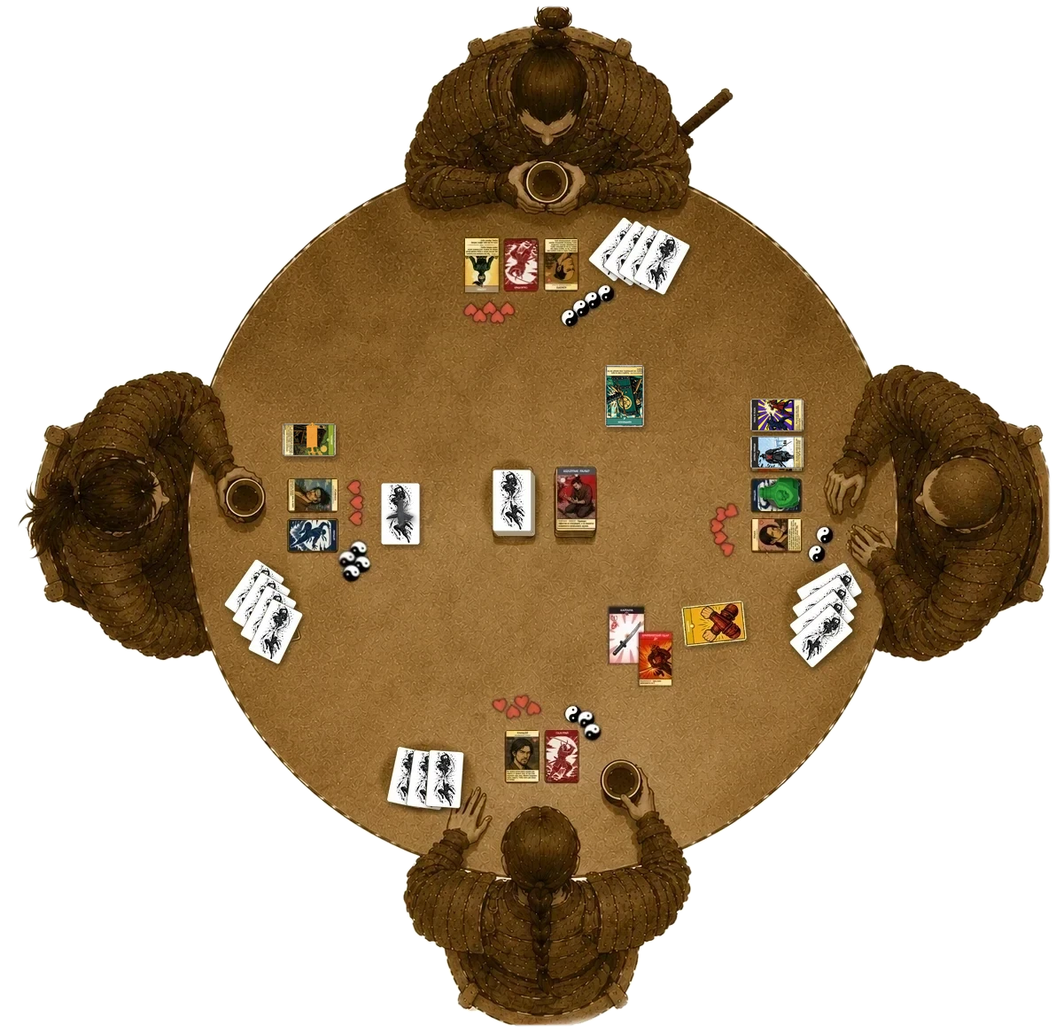
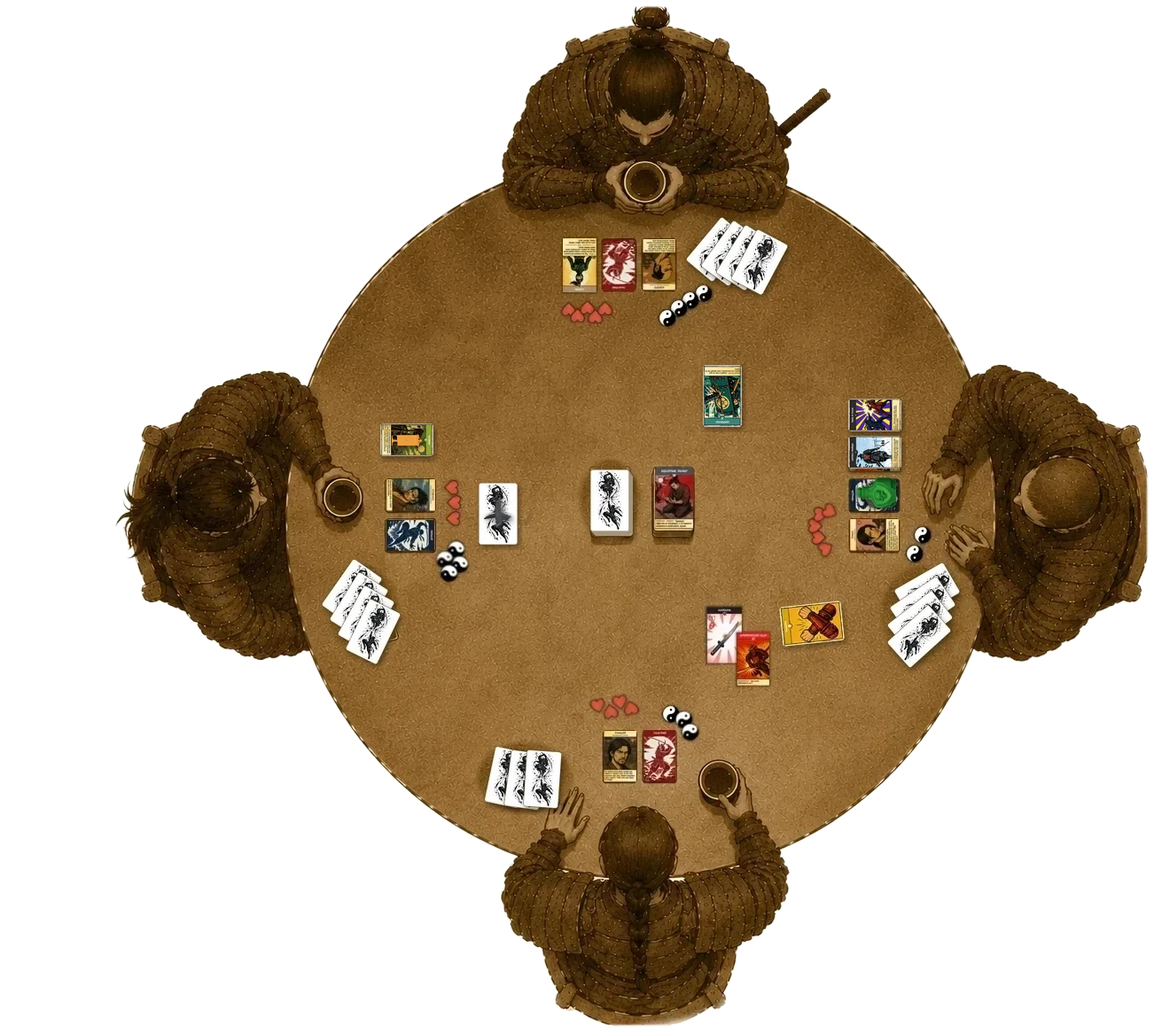
Стол: стрелки — дуги концентрично кромке, значки типов посередине; атака и защита сходятся на середине; дуга ауры за спиной левого ниндзя (холст шире на 110 px); плашки круглее, знамя повёрнуто по игроку

Changed region(s): [[0.0, 0.0, 1.0, 1.0]]

diff --git a/rules/rules.html b/rules/rules.html
@@ -134,7 +134,7 @@
           <h2 class="chapter-title">Стол<span class="kanji" aria-hidden="true">卓</span></h2>
 <p>Так выглядит стол в середине партии на четверых: у каждого игрока перед собой своя зона, посреди стола — общие стопки. Игроки сидят через одного, поэтому напротив — союзник, а по бокам — противники.</p>
 <figure class="table-figure">
-        <div class="table-pic"><img src="media/table.webp" alt="" width="1192" height="1165"><svg class="table-overlay" viewBox="0 0 1192 1165" xmlns="http://www.w3.org/2000/svg" aria-hidden="true"><defs><marker id="tf-arrow" viewBox="0 0 10 10" refX="9" refY="5" markerWidth="5" markerHeight="5" orient="auto-start-reverse"><path d="M0,0 L10,5 L0,10 z"/></marker><marker id="tf-arrow-attack" viewBox="0 0 10 10" refX="8" refY="5" markerWidth="4" markerHeight="4" orient="auto-start-reverse"><path d="M0,0 L10,5 L0,10 z"/></marker><marker id="tf-arrow-def" viewBox="0 0 10 10" refX="8" refY="5" markerWidth="4" markerHeight="4" orient="auto-start-reverse"><path d="M0,0 L10,5 L0,10 z"/></marker><marker id="tf-arrow-int" viewBox="0 0 10 10" refX="8" refY="5" markerWidth="4" markerHeight="4" orient="auto-start-reverse"><path d="M0,0 L10,5 L0,10 z"/></marker></defs><path class="tf-flow tf-flow-attack" d="M 790 1125 C 930 1100 1020 950 1005 775"/><path class="tf-flow tf-flow-def" d="M 1165 715 C 1175 770 1140 800 1082 800"/><path class="tf-flow tf-flow-int" d="M 800 215 C 920 215 1010 260 1030 320"/><g class="tf-lines"><line x1="472" y1="300" x2="515" y2="300"/><line x1="599" y1="406" x2="593" y2="335"/><line x1="824" y1="361" x2="760" y2="315"/><line x1="476" y1="626" x2="458" y2="612"/><line x1="447" y1="464" x2="365" y2="532"/><line x1="312" y1="451" x2="330" y2="480"/><line x1="518" y1="519" x2="560" y2="565"/><line x1="680" y1="595" x2="668" y2="588"/><line x1="829" y1="449" x2="856" y2="462"/><line x1="709" y1="409" x2="708" y2="412"/><line x1="820" y1="544" x2="862" y2="552"/><line x1="813" y1="743" x2="812" y2="732"/><line x1="626" y1="717" x2="688" y2="714"/><line x1="468" y1="793" x2="565" y2="800"/><line x1="714" y1="812" x2="683" y2="812"/></g><g class="tf-labels"><g transform="translate(384,281)"><rect width="89" height="38" rx="5"/><text class="tf-txt" x="44.5" y="20.0">Стойка</text></g><g transform="translate(532,406)"><rect width="136" height="38" rx="5"/><text class="tf-txt" x="68.0" y="20.0">Карта роли</text></g><g transform="translate(818,361)"><rect width="65" height="38" rx="5"/><text class="tf-txt" x="32.5" y="20.0">Рука</text></g><g transform="translate(450,626)"><rect width="101" height="38" rx="5"/><text class="tf-txt" x="50.5" y="20.0">Ловушка</text></g><g transform="translate(414,426)"><rect width="113" height="38" rx="5"/><text class="tf-txt" x="56.5" y="20.0">Персонаж</text></g><g transform="translate(268,413)"><rect width="65" height="38" rx="5"/><text class="tf-txt" x="32.5" y="20.0">Аура</text></g><g transform="translate(456,481)"><rect width="89" height="38" rx="5"/><text class="tf-txt" x="44.5" y="20.0">Колода</text></g><g transform="translate(674,595)"><rect width="77" height="38" rx="5"/><text class="tf-txt" x="38.5" y="20.0">Сброс</text></g><g transform="translate(740,411)"><rect width="101" height="38" rx="5"/><text class="tf-txt" x="50.5" y="20.0">Эффекты</text></g><g transform="translate(630,371)"><rect width="172" height="38" rx="5"/><text class="tf-txt" x="86.0" y="20.0">Вмешательство</text></g><g transform="translate(780,521)"><rect width="41" height="38" rx="5"/><text class="tf-txt" x="20.5" y="20.0">Яд</text></g><g transform="translate(770,743)"><rect width="89" height="38" rx="5"/><text class="tf-txt" x="44.5" y="20.0">Защита</text></g><g transform="translate(454,688)"><rect width="172" height="67" rx="5"/><text class="tf-txt" x="86.0" y="20.0">Атака: оружие</text><text class="tf-txt" x="86.0" y="49.0">+ модификатор</text></g><g transform="translate(392,771)"><rect width="77" height="38" rx="5"/><text class="tf-txt" x="38.5" y="20.0">Жизни</text></g><g transform="translate(714,793)"><rect width="172" height="38" rx="5"/><text class="tf-txt" x="86.0" y="20.0">Победные очки</text></g><g transform="translate(1034,941)"><rect width="101" height="38" rx="5"/><text class="tf-txt" x="50.5" y="20.0">Атакует</text></g><g transform="translate(1040,843)"><rect width="136" height="38" rx="5"/><text class="tf-txt" x="68.0" y="20.0">Защищается</text></g><g transform="translate(941,199)"><rect width="148" height="38" rx="5"/><text class="tf-txt" x="74.0" y="20.0">Вмешивается</text></g></g><g class="tf-tags"><g transform="translate(810,131)"><rect width="101" height="38" rx="23"/><text x="50.5" y="20.0">Самурай</text></g><g transform="translate(1036,376)"><rect width="89" height="38" rx="23"/><text x="44.5" y="20.0">Ниндзя</text></g><g transform="translate(710,1041)"><rect width="101" height="38" rx="23"/><text x="50.5" y="20.0">Самурай</text></g><g transform="translate(96,381)"><rect width="89" height="38" rx="23"/><text x="44.5" y="20.0">Ниндзя</text></g></g></svg><i class="ic tf-icon" data-b="defense" style="left:89.09%;top:68.67%"></i></div>
+        <div class="table-pic"><img src="media/table.webp" alt="" width="1302" height="1165"><svg class="table-overlay" viewBox="0 0 1302 1165" xmlns="http://www.w3.org/2000/svg" aria-hidden="true"><defs><marker id="tf-arrow" viewBox="0 0 10 10" refX="9" refY="5" markerWidth="5" markerHeight="5" orient="auto-start-reverse"><path d="M0,0 L10,5 L0,10 z"/></marker><marker id="tf-arrow-attack" viewBox="0 0 10 10" refX="8" refY="5" markerWidth="4" markerHeight="4" orient="auto-start-reverse"><path d="M0,0 L10,5 L0,10 z"/></marker><marker id="tf-arrow-def" viewBox="0 0 10 10" refX="8" refY="5" markerWidth="4" markerHeight="4" orient="auto-start-reverse"><path d="M0,0 L10,5 L0,10 z"/></marker><marker id="tf-arrow-int" viewBox="0 0 10 10" refX="8" refY="5" markerWidth="4" markerHeight="4" orient="auto-start-reverse"><path d="M0,0 L10,5 L0,10 z"/></marker><marker id="tf-arrow-aura" viewBox="0 0 10 10" refX="8" refY="5" markerWidth="4" markerHeight="4" orient="auto-start-reverse"><path d="M0,0 L10,5 L0,10 z"/></marker></defs><g transform="translate(110,0)"><path class="tf-flow tf-flow-attack" d="M 773 1018 A 470 470 0 0 0 918 926"/><path class="tf-flow tf-flow-def" d="M 1049 712 A 470 470 0 0 1 941 903"/><path class="tf-flow tf-flow-int" d="M 788 153 A 470 470 0 0 1 946 268"/><path class="tf-flow tf-flow-aura" d="M 49 326 A 605 605 0 0 0 49 838"/><g class="tf-lines"><line x1="472" y1="300" x2="515" y2="300"/><line x1="599" y1="406" x2="593" y2="335"/><line x1="824" y1="361" x2="760" y2="315"/><line x1="476" y1="626" x2="458" y2="612"/><line x1="447" y1="464" x2="365" y2="532"/><line x1="518" y1="519" x2="560" y2="565"/><line x1="680" y1="595" x2="668" y2="588"/><line x1="829" y1="449" x2="856" y2="462"/><line x1="709" y1="409" x2="708" y2="412"/><line x1="820" y1="544" x2="862" y2="552"/><line x1="813" y1="743" x2="812" y2="732"/><line x1="626" y1="717" x2="688" y2="714"/><line x1="468" y1="793" x2="565" y2="800"/><line x1="714" y1="812" x2="683" y2="812"/></g><g class="tf-labels"><g transform="translate(384,281)"><rect width="89" height="38" rx="7"/><text class="tf-txt" x="44.5" y="20.0">Стойка</text></g><g transform="translate(532,406)"><rect width="136" height="38" rx="7"/><text class="tf-txt" x="68.0" y="20.0">Карта роли</text></g><g transform="translate(818,361)"><rect width="65" height="38" rx="7"/><text class="tf-txt" x="32.5" y="20.0">Рука</text></g><g transform="translate(450,626)"><rect width="101" height="38" rx="7"/><text class="tf-txt" x="50.5" y="20.0">Ловушка</text></g><g transform="translate(414,426)"><rect width="113" height="38" rx="7"/><text class="tf-txt" x="56.5" y="20.0">Персонаж</text></g><g transform="translate(456,481)"><rect width="89" height="38" rx="7"/><text class="tf-txt" x="44.5" y="20.0">Колода</text></g><g transform="translate(674,595)"><rect width="77" height="38" rx="7"/><text class="tf-txt" x="38.5" y="20.0">Сброс</text></g><g transform="translate(740,411)"><rect width="101" height="38" rx="7"/><text class="tf-txt" x="50.5" y="20.0">Эффекты</text></g><g transform="translate(630,371)"><rect width="172" height="38" rx="7"/><text class="tf-txt" x="86.0" y="20.0">Вмешательство</text></g><g transform="translate(780,521)"><rect width="41" height="38" rx="7"/><text class="tf-txt" x="20.5" y="20.0">Яд</text></g><g transform="translate(770,743)"><rect width="89" height="38" rx="7"/><text class="tf-txt" x="44.5" y="20.0">Защита</text></g><g transform="translate(454,688)"><rect width="172" height="67" rx="7"/><text class="tf-txt" x="86.0" y="20.0">Атака: оружие</text><text class="tf-txt" x="86.0" y="49.0">+ модификатор</text></g><g transform="translate(392,771)"><rect width="77" height="38" rx="7"/><text class="tf-txt" x="38.5" y="20.0">Жизни</text></g><g transform="translate(714,793)"><rect width="172" height="38" rx="7"/><text class="tf-txt" x="86.0" y="20.0">Победные очки</text></g><g transform="translate(847,1035)"><rect width="101" height="38" rx="7"/><text class="tf-txt" x="50.5" y="20.0">Атакует</text></g><g transform="translate(1027,851)"><rect width="136" height="38" rx="7"/><text class="tf-txt" x="68.0" y="20.0">Защищается</text></g><g transform="translate(852,110)"><rect width="148" height="38" rx="7"/><text class="tf-txt" x="74.0" y="20.0">Вмешивается</text></g><g transform="translate(-22,811)"><rect width="243" height="38" rx="7"/><text class="tf-txt" x="121.5" y="20.0">Аура — на весь стол</text></g></g><g class="tf-tags"><g transform="translate(284,131)"><rect width="101" height="38" rx="23"/><text x="50.5" y="20.0">Самурай</text></g><g transform="translate(1036,376)"><rect width="89" height="38" rx="23"/><text x="44.5" y="20.0">Ниндзя</text></g><g transform="translate(710,1041)"><rect width="101" height="38" rx="23"/><text x="50.5" y="20.0">Самурай</text></g><g transform="translate(96,381)"><rect width="89" height="38" rx="23"/><text x="44.5" y="20.0">Ниндзя</text></g></g></g></svg><i class="ic tf-icon" data-b="weapon" style="left:72.21%;top:84.98%"></i><i class="ic tf-icon" data-b="modifier" style="left:75.14%;top:82.90%"></i><i class="ic tf-icon" data-b="defense" style="left:85.72%;top:69.82%"></i><i class="ic tf-icon" data-b="intervention" style="left:75.52%;top:17.32%"></i><i class="ic tf-icon" data-b="aura" style="left:7.83%;top:49.96%"></i></div>
         <figcaption>Стол на четверых: самурай — ниндзя — самурай — ниндзя.</figcaption>
       </figure>
 <aside class="note">За большим столом — на восьмерых — колоду и сброс удобно разделить на две стопки и поставить с разных сторон, чтобы каждому было легко дотянуться: колода перетасована, а порядок карт в сбросе не важен.</aside>

diff --git a/rules/rules-en.html b/rules/rules-en.html
@@ -134,7 +134,7 @@
           <h2 class="chapter-title">The Table<span class="kanji" aria-hidden="true">卓</span></h2>
 <p>This is what a four-player table looks like mid-game: every player has their own area in front of them, and the shared piles sit in the middle. Seats alternate, so the player opposite is your ally and the players on either side are enemies.</p>
 <figure class="table-figure">
-        <div class="table-pic"><img src="media/table.webp" alt="" width="1192" height="1165"><svg class="table-overlay" viewBox="0 0 1192 1165" xmlns="http://www.w3.org/2000/svg" aria-hidden="true"><defs><marker id="tf-arrow" viewBox="0 0 10 10" refX="9" refY="5" markerWidth="5" markerHeight="5" orient="auto-start-reverse"><path d="M0,0 L10,5 L0,10 z"/></marker><marker id="tf-arrow-attack" viewBox="0 0 10 10" refX="8" refY="5" markerWidth="4" markerHeight="4" orient="auto-start-reverse"><path d="M0,0 L10,5 L0,10 z"/></marker><marker id="tf-arrow-def" viewBox="0 0 10 10" refX="8" refY="5" markerWidth="4" markerHeight="4" orient="auto-start-reverse"><path d="M0,0 L10,5 L0,10 z"/></marker><marker id="tf-arrow-int" viewBox="0 0 10 10" refX="8" refY="5" markerWidth="4" markerHeight="4" orient="auto-start-reverse"><path d="M0,0 L10,5 L0,10 z"/></marker></defs><path class="tf-flow tf-flow-attack" d="M 790 1125 C 930 1100 1020 950 1005 775"/><path class="tf-flow tf-flow-def" d="M 1165 715 C 1175 770 1140 800 1082 800"/><path class="tf-flow tf-flow-int" d="M 800 215 C 920 215 1010 260 1030 320"/><g class="tf-lines"><line x1="472" y1="300" x2="515" y2="300"/><line x1="599" y1="406" x2="593" y2="335"/><line x1="824" y1="361" x2="760" y2="315"/><line x1="476" y1="626" x2="458" y2="612"/><line x1="447" y1="464" x2="365" y2="532"/><line x1="312" y1="451" x2="330" y2="480"/><line x1="518" y1="519" x2="560" y2="565"/><line x1="680" y1="595" x2="668" y2="588"/><line x1="829" y1="449" x2="856" y2="462"/><line x1="709" y1="409" x2="708" y2="412"/><line x1="844" y1="549" x2="862" y2="552"/><line x1="813" y1="743" x2="812" y2="732"/><line x1="632" y1="717" x2="688" y2="714"/><line x1="462" y1="792" x2="565" y2="800"/><line x1="708" y1="812" x2="683" y2="812"/></g><g class="tf-labels"><g transform="translate(384,281)"><rect width="89" height="38" rx="5"/><text class="tf-txt" x="44.5" y="20.0">Stance</text></g><g transform="translate(538,406)"><rect width="124" height="38" rx="5"/><text class="tf-txt" x="62.0" y="20.0">Role card</text></g><g transform="translate(818,361)"><rect width="65" height="38" rx="5"/><text class="tf-txt" x="32.5" y="20.0">Hand</text></g><g transform="translate(468,626)"><rect width="65" height="38" rx="5"/><text class="tf-txt" x="32.5" y="20.0">Trap</text></g><g transform="translate(408,426)"><rect width="124" height="38" rx="5"/><text class="tf-txt" x="62.0" y="20.0">Character</text></g><g transform="translate(268,413)"><rect width="65" height="38" rx="5"/><text class="tf-txt" x="32.5" y="20.0">Aura</text></g><g transform="translate(468,481)"><rect width="65" height="38" rx="5"/><text class="tf-txt" x="32.5" y="20.0">Deck</text></g><g transform="translate(662,595)"><rect width="101" height="38" rx="5"/><text class="tf-txt" x="50.5" y="20.0">Discard</text></g><g transform="translate(740,411)"><rect width="101" height="38" rx="5"/><text class="tf-txt" x="50.5" y="20.0">Effects</text></g><g transform="translate(636,371)"><rect width="160" height="38" rx="5"/><text class="tf-txt" x="80.0" y="20.0">Intervention</text></g><g transform="translate(756,521)"><rect width="89" height="38" rx="5"/><text class="tf-txt" x="44.5" y="20.0">Poison</text></g><g transform="translate(764,743)"><rect width="101" height="38" rx="5"/><text class="tf-txt" x="50.5" y="20.0">Defense</text></g><g transform="translate(448,688)"><rect width="184" height="67" rx="5"/><text class="tf-txt" x="92.0" y="20.0">Attack: weapon</text><text class="tf-txt" x="92.0" y="49.0">+ modifier</text></g><g transform="translate(398,771)"><rect width="65" height="38" rx="5"/><text class="tf-txt" x="32.5" y="20.0">Life</text></g><g transform="translate(708,793)"><rect width="184" height="38" rx="5"/><text class="tf-txt" x="92.0" y="20.0">Victory points</text></g><g transform="translate(1034,941)"><rect width="101" height="38" rx="5"/><text class="tf-txt" x="50.5" y="20.0">Attacks</text></g><g transform="translate(1058,843)"><rect width="101" height="38" rx="5"/><text class="tf-txt" x="50.5" y="20.0">Defends</text></g><g transform="translate(947,199)"><rect width="136" height="38" rx="5"/><text class="tf-txt" x="68.0" y="20.0">Intervenes</text></g></g><g class="tf-tags"><g transform="translate(810,131)"><rect width="101" height="38" rx="23"/><text x="50.5" y="20.0">Samurai</text></g><g transform="translate(1042,376)"><rect width="77" height="38" rx="23"/><text x="38.5" y="20.0">Ninja</text></g><g transform="translate(710,1041)"><rect width="101" height="38" rx="23"/><text x="50.5" y="20.0">Samurai</text></g><g transform="translate(102,381)"><rect width="77" height="38" rx="23"/><text x="38.5" y="20.0">Ninja</text></g></g></svg><i class="ic tf-icon" data-b="defense" style="left:89.09%;top:68.67%"></i></div>
+        <div class="table-pic"><img src="media/table.webp" alt="" width="1302" height="1165"><svg class="table-overlay" viewBox="0 0 1302 1165" xmlns="http://www.w3.org/2000/svg" aria-hidden="true"><defs><marker id="tf-arrow" viewBox="0 0 10 10" refX="9" refY="5" markerWidth="5" markerHeight="5" orient="auto-start-reverse"><path d="M0,0 L10,5 L0,10 z"/></marker><marker id="tf-arrow-attack" viewBox="0 0 10 10" refX="8" refY="5" markerWidth="4" markerHeight="4" orient="auto-start-reverse"><path d="M0,0 L10,5 L0,10 z"/></marker><marker id="tf-arrow-def" viewBox="0 0 10 10" refX="8" refY="5" markerWidth="4" markerHeight="4" orient="auto-start-reverse"><path d="M0,0 L10,5 L0,10 z"/></marker><marker id="tf-arrow-int" viewBox="0 0 10 10" refX="8" refY="5" markerWidth="4" markerHeight="4" orient="auto-start-reverse"><path d="M0,0 L10,5 L0,10 z"/></marker><marker id="tf-arrow-aura" viewBox="0 0 10 10" refX="8" refY="5" markerWidth="4" markerHeight="4" orient="auto-start-reverse"><path d="M0,0 L10,5 L0,10 z"/></marker></defs><g transform="translate(110,0)"><path class="tf-flow tf-flow-attack" d="M 773 1018 A 470 470 0 0 0 918 926"/><path class="tf-flow tf-flow-def" d="M 1049 712 A 470 470 0 0 1 941 903"/><path class="tf-flow tf-flow-int" d="M 788 153 A 470 470 0 0 1 946 268"/><path class="tf-flow tf-flow-aura" d="M 49 326 A 605 605 0 0 0 49 838"/><g class="tf-lines"><line x1="472" y1="300" x2="515" y2="300"/><line x1="599" y1="406" x2="593" y2="335"/><line x1="824" y1="361" x2="760" y2="315"/><line x1="476" y1="626" x2="458" y2="612"/><line x1="447" y1="464" x2="365" y2="532"/><line x1="518" y1="519" x2="560" y2="565"/><line x1="680" y1="595" x2="668" y2="588"/><line x1="829" y1="449" x2="856" y2="462"/><line x1="709" y1="409" x2="708" y2="412"/><line x1="844" y1="549" x2="862" y2="552"/><line x1="813" y1="743" x2="812" y2="732"/><line x1="632" y1="717" x2="688" y2="714"/><line x1="462" y1="792" x2="565" y2="800"/><line x1="708" y1="812" x2="683" y2="812"/></g><g class="tf-labels"><g transform="translate(384,281)"><rect width="89" height="38" rx="7"/><text class="tf-txt" x="44.5" y="20.0">Stance</text></g><g transform="translate(538,406)"><rect width="124" height="38" rx="7"/><text class="tf-txt" x="62.0" y="20.0">Role card</text></g><g transform="translate(818,361)"><rect width="65" height="38" rx="7"/><text class="tf-txt" x="32.5" y="20.0">Hand</text></g><g transform="translate(468,626)"><rect width="65" height="38" rx="7"/><text class="tf-txt" x="32.5" y="20.0">Trap</text></g><g transform="translate(408,426)"><rect width="124" height="38" rx="7"/><text class="tf-txt" x="62.0" y="20.0">Character</text></g><g transform="translate(468,481)"><rect width="65" height="38" rx="7"/><text class="tf-txt" x="32.5" y="20.0">Deck</text></g><g transform="translate(662,595)"><rect width="101" height="38" rx="7"/><text class="tf-txt" x="50.5" y="20.0">Discard</text></g><g transform="translate(740,411)"><rect width="101" height="38" rx="7"/><text class="tf-txt" x="50.5" y="20.0">Effects</text></g><g transform="translate(636,371)"><rect width="160" height="38" rx="7"/><text class="tf-txt" x="80.0" y="20.0">Intervention</text></g><g transform="translate(756,521)"><rect width="89" height="38" rx="7"/><text class="tf-txt" x="44.5" y="20.0">Poison</text></g><g transform="translate(764,743)"><rect width="101" height="38" rx="7"/><text class="tf-txt" x="50.5" y="20.0">Defense</text></g><g transform="translate(448,688)"><rect width="184" height="67" rx="7"/><text class="tf-txt" x="92.0" y="20.0">Attack: weapon</text><text class="tf-txt" x="92.0" y="49.0">+ modifier</text></g><g transform="translate(398,771)"><rect width="65" height="38" rx="7"/><text class="tf-txt" x="32.5" y="20.0">Life</text></g><g transform="translate(708,793)"><rect width="184" height="38" rx="7"/><text class="tf-txt" x="92.0" y="20.0">Victory points</text></g><g transform="translate(847,1035)"><rect width="101" height="38" rx="7"/><text class="tf-txt" x="50.5" y="20.0">Attacks</text></g><g transform="translate(1044,851)"><rect width="101" height="38" rx="7"/><text class="tf-txt" x="50.5" y="20.0">Defends</text></g><g transform="translate(858,110)"><rect width="136" height="38" rx="7"/><text class="tf-txt" x="68.0" y="20.0">Intervenes</text></g><g transform="translate(-16,811)"><rect width="231" height="38" rx="7"/><text class="tf-txt" x="115.5" y="20.0">Aura — whole table</text></g></g><g class="tf-tags"><g transform="translate(284,131)"><rect width="101" height="38" rx="23"/><text x="50.5" y="20.0">Samurai</text></g><g transform="translate(1042,376)"><rect width="77" height="38" rx="23"/><text x="38.5" y="20.0">Ninja</text></g><g transform="translate(710,1041)"><rect width="101" height="38" rx="23"/><text x="50.5" y="20.0">Samurai</text></g><g transform="translate(102,381)"><rect width="77" height="38" rx="23"/><text x="38.5" y="20.0">Ninja</text></g></g></g></svg><i class="ic tf-icon" data-b="weapon" style="left:72.21%;top:84.98%"></i><i class="ic tf-icon" data-b="modifier" style="left:75.14%;top:82.90%"></i><i class="ic tf-icon" data-b="defense" style="left:85.72%;top:69.82%"></i><i class="ic tf-icon" data-b="intervention" style="left:75.52%;top:17.32%"></i><i class="ic tf-icon" data-b="aura" style="left:7.83%;top:49.96%"></i></div>
         <figcaption>A table for four: samurai — ninja — samurai — ninja.</figcaption>
       </figure>
 <aside class="note">At a big table — eight players — it is convenient to split the deck and the discard pile in two and place them on opposite sides so that everyone can reach: the deck is shuffled, and the order of cards in the discard pile does not matter.</aside>

diff --git a/rules/rules.css b/rules/rules.css
@@ -627,6 +627,8 @@ section.chapter::after { content: ""; display: block; clear: both; }
 .table-overlay .tf-flow { fill: none; stroke: var(--vermilion-dk); stroke-width: 10; stroke-dasharray: 18 11; stroke-linecap: round; opacity: .6; marker-end: url(#tf-arrow-attack); }
 .table-overlay .tf-flow-def { stroke: #b8860b; marker-end: url(#tf-arrow-def); }      /* защита — золото карт защиты */
 .table-overlay .tf-flow-int { stroke: #3B8476; marker-end: url(#tf-arrow-int); }      /* вмешательство — цвет его карт */
+.table-overlay .tf-flow-aura { stroke: #93a32e; marker-end: url(#tf-arrow-aura); }   /* аура — цвет её карт */
+.table-overlay #tf-arrow-aura path { fill: #93a32e; }
 .table-overlay #tf-arrow-def path { fill: #b8860b; }
 .table-overlay #tf-arrow-int path { fill: #3B8476; }
 .table-pic .tf-icon { position: absolute; --ic: 6.5mm; transform: translate(-50%, -50%); box-shadow: 0 0 0 .5mm #fff; }   /* значок типа на конце стрелки защиты */

diff --git a/tools/table_fig.py b/tools/table_fig.py
@@ -6,7 +6,9 @@ import os, re, math, shutil, sys
 sys.stdout.reconfigure(encoding='utf-8')
 os.chdir(os.path.dirname(os.path.dirname(os.path.abspath(__file__))))
 
-W, H = 1192, 1165
+W0, H = 1192, 1165        # фото стола; координаты подписей — в его пикселях
+PAD = 110                 # слева холст расширен под дугу ауры за спиной левого ниндзя (compose-table-effects.py)
+W = W0 + PAD              # ширина итоговой картинки rules/media/table.webp
 # Картинка стола — rules/media/table.webp (скриншот стола, белый фон вырезан
 # в прозрачность); координаты ниже — в её пикселях.
 
@@ -32,7 +34,6 @@ LABELS = [
     ('hand',      (850, 380), (760, 315)),    # справа-снизу от веера
     ('trap',      (500, 645), (458, 612)),    # под ловушкой левого игрока, между жетонами и колодой
     ('character', (470, 445), (365, 532)),    # верхняя левая четверть
-    ('aura',      (300, 432), (330, 480)),    # над аурой левого ниндзя, у кромки стола
     ('deck',      (500, 500), (560, 565)),    # слева-сверху от колоды
     ('discard',   (712, 614), (668, 588)),    # справа-снизу от сброса
     ('effect',    (790, 430), (856, 462)),    # над столбиком эффектов — к верхней карте («Пыль в глаза»)
@@ -44,16 +45,40 @@ LABELS = [
     ('vp',        (800, 812), (683, 812)),    # справа от очков нижнего игрока
 ]
 # фракционные метки у фигур: (текст-ключ, центр)
-TAGS = [('samurai', (860, 150)), ('ninja', (1080, 395)), ('samurai', (760, 1060)), ('ninja', (140, 400))]
-# стрелки хода: (ключ подписи, класс, путь, центр подписи). Атака — от нижнего самурая к правому
-# ниндзя снаружи стола, повторяя контур его тела; защита — от ниндзя навстречу атаке, на конце
-# значок защиты (ICON_AT); вмешательство — от верхнего самурая к ниндзя, через верхний правый край
+TAGS = [('samurai', (335, 150)), ('ninja', (1080, 395)), ('samurai', (760, 1060)), ('ninja', (140, 400))]   # верхний самурай — метка слева, справа идёт дуга вмешательства
+# стрелки хода — дуги снаружи стола, концентрично его кромке (центр CX,CY, радиус кромки ≈410):
+# (ключ подписи, класс, угол начала, угол конца, значки типов посередине дуги, радиус подписи).
+# Углы — от оси x по часовой (y вниз): 0° — правый ниндзя, 90° — нижний самурай, −90° — верхний.
+# Атака: нижний самурай → правый ниндзя; защита: короткая дуга от ниндзя навстречу атаке;
+# вмешательство: верхний самурай → ниндзя. Значки стоят на дуге, подписи — снаружи от неё.
+CX, CY, R_ARC = 597, 582, 470
+R_AURA = 605              # дуга ауры — снаружи фигуры ниндзя
 FLOWS = [
-    ('attacks',    'attack', 'M 790 1125 C 930 1100 1020 950 1005 775', (1085, 960)),
-    ('defends',    'def',    'M 1165 715 C 1175 770 1140 800 1082 800',  (1108, 862)),
-    ('intervenes', 'int',    'M 800 215 C 920 215 1010 260 1030 320',   (1015, 218)),
+    ('attacks',    'attack',  68,  47, ['weapon', 'modifier'], 560),   # до середины между самураем и ниндзя
+    ('defends',    'def',     16,  43, ['defense'],            0),     # навстречу, до той же середины; подпись — DEF_LABEL
+
+    ('intervenes', 'int',    -66, -42, ['intervention'],       560),
+    ('aura',       'aura',   205, 155, ['aura'],               0),     # за спиной левого ниндзя (радиус R_AURA, на поле PAD): аура — на весь стол; подпись — AURA_LABEL
 ]
-ICON_AT = ('defense', (1062, 800))   # значок типа на конце стрелки защиты
+AURA_LABEL = (100, 830)
+DEF_LABEL = (1095, 870)   # «Защищается» — ниже дуги, не наезжая на значок   # плашка «Аура — на весь стол» под концом дуги, слева-снизу от ниндзя
+import math
+def polar(a, r=R_ARC):
+    return (CX + r * math.cos(math.radians(a)), CY + r * math.sin(math.radians(a)))
+def arc_path(a0, a1, r=R_ARC):
+    (x0, y0), (x1, y1) = polar(a0, r), polar(a1, r)
+    return f'M {x0:.0f} {y0:.0f} A {r} {r} 0 0 {1 if a1 > a0 else 0} {x1:.0f} {y1:.0f}'
+def flow_r(key):
+    return R_AURA if key == 'aura' else R_ARC
+def flow_icons():
+    """Значки типов на середине каждой дуги: (ключ, центр); два значка — по 5° в стороны от середины."""
+    out = []
+    for key, cls, a0, a1, icons, _ in FLOWS:
+        mid = (a0 + a1) / 2
+        step = 5.5 if a1 > a0 else -5.5
+        for i, ic in enumerate(icons):
+            out.append((ic, polar(mid + (i - (len(icons) - 1) / 2) * step, flow_r(key))))
+    return out
 
 TXT = {
  'ru': {
@@ -61,7 +86,7 @@ TXT = {
   'hand': 'Рука', 'discard': 'Сброс', 'effect': 'Эффекты', 'life': 'Жизни',
   'vp': 'Победные очки', 'attack': 'Атака: оружие|+ модификатор',
   'poison': 'Яд', 'defense': 'Защита', 'trap': 'Ловушка', 'attacks': 'Атакует',
-  'defends': 'Защищается', 'intervenes': 'Вмешивается', 'aura': 'Аура',
+  'defends': 'Защищается', 'intervenes': 'Вмешивается', 'aura': 'Аура — на весь стол',
   'intervention': 'Вмешательство',
   'samurai': 'Самурай', 'ninja': 'Ниндзя',
   'h4': 'Стол',
@@ -87,7 +112,7 @@ TXT = {
   'hand': 'Hand', 'discard': 'Discard', 'effect': 'Effects', 'life': 'Life',
   'vp': 'Victory points', 'attack': 'Attack: weapon|+ modifier',
   'poison': 'Poison', 'defense': 'Defense', 'trap': 'Trap', 'attacks': 'Attacks',
-  'defends': 'Defends', 'intervenes': 'Intervenes', 'aura': 'Aura',
+  'defends': 'Defends', 'intervenes': 'Intervenes', 'aura': 'Aura — whole table',
   'intervention': 'Intervention',
   'samurai': 'Samurai', 'ninja': 'Ninja',
   'h4': 'The Table',
@@ -129,10 +154,11 @@ def svg(lang):
     out = []
     out.append(f'<svg class="table-overlay" viewBox="0 0 {W} {H}" xmlns="http://www.w3.org/2000/svg" aria-hidden="true">')
     out.append('<defs><marker id="tf-arrow" viewBox="0 0 10 10" refX="9" refY="5" markerWidth="5" markerHeight="5" orient="auto-start-reverse"><path d="M0,0 L10,5 L0,10 z"/></marker>'
-               + ''.join(f'<marker id="tf-arrow-{k}" viewBox="0 0 10 10" refX="8" refY="5" markerWidth="4" markerHeight="4" orient="auto-start-reverse"><path d="M0,0 L10,5 L0,10 z"/></marker>' for k in ('attack', 'def', 'int'))
+               + ''.join(f'<marker id="tf-arrow-{k}" viewBox="0 0 10 10" refX="8" refY="5" markerWidth="4" markerHeight="4" orient="auto-start-reverse"><path d="M0,0 L10,5 L0,10 z"/></marker>' for k in ('attack', 'def', 'int', 'aura'))
                + '</defs>')
-    for key, cls, path, _ in FLOWS:
-        out.append(f'<path class="tf-flow tf-flow-{cls}" d="{path}"/>')
+    out.append(f'<g transform="translate({PAD},0)">')   # все координаты — в пикселях фото, холст шире на PAD слева
+    for key, cls, a0, a1, _, _ in FLOWS:
+        out.append(f'<path class="tf-flow tf-flow-{cls}" d="{arc_path(a0, a1, flow_r(key))}"/>')
     # линии — под плашками
     out.append('<g class="tf-lines">')
     for key, (lx, ly), (tx, ty) in LABELS:
@@ -147,14 +173,15 @@ def svg(lang):
     for key, (lx, ly), _ in LABELS:
         w = box_w(t[key]); h = box_h(t[key]); ls = lines(t[key])
         x0, y0 = lx - w / 2, ly - h / 2
-        out.append(f'<g transform="translate({x0:.0f},{y0:.0f})"><rect width="{w}" height="{h}" rx="5"/>')
+        out.append(f'<g transform="translate({x0:.0f},{y0:.0f})"><rect width="{w}" height="{h}" rx="7"/>')
         for i, l in enumerate(ls):
             out.append(f'<text class="tf-txt" x="{w/2}" y="{BH/2 + 1 + i*LH}">{esc(l)}</text>')
         out.append('</g>')
     # подписи у стрелок хода — та же плашка, без линии
-    for key, _, _, (lx, ly) in FLOWS:
+    for key, _, a0, a1, _, rl in FLOWS:
+      lx, ly = polar((a0 + a1) / 2, rl) if rl else {'defends': DEF_LABEL, 'aura': AURA_LABEL}[key]
       w = box_w(t[key]); h = box_h(t[key])
-      out.append(f'<g transform="translate({lx - w/2:.0f},{ly - h/2:.0f})"><rect width="{w}" height="{h}" rx="5"/><text class="tf-txt" x="{w/2}" y="{BH/2 + 1}">{esc(t[key])}</text></g>')
+      out.append(f'<g transform="translate({lx - w/2:.0f},{ly - h/2:.0f})"><rect width="{w}" height="{h}" rx="7"/><text class="tf-txt" x="{w/2}" y="{BH/2 + 1}">{esc(t[key])}</text></g>')
     out.append('</g>')
     out.append('<g class="tf-tags">')
     for key, (cx, cy) in TAGS:
@@ -163,16 +190,17 @@ def svg(lang):
                    f'<rect width="{w}" height="{BH}" rx="23"/>'
                    f'<text x="{w/2}" y="{BH/2 + 1}">{esc(txt)}</text></g>')
     out.append('</g>')
-    out.append('</svg>')
+    out.append('</g></svg>')
     return ''.join(out)
 
 def section(lang):
     t = TXT[lang]
+    icons = ''.join(f'<i class="ic tf-icon" data-b="{k}" style="left:{(x + PAD)/W*100:.2f}%;top:{y/H*100:.2f}%"></i>'
+                    for k, (x, y) in flow_icons())   # значки типов на серединах дуг — поверх SVG
     return (f'\n      <h4>{esc(t["h4"])}</h4>\n'
             f'      <p>{esc(t["intro"])}</p>\n'
             f'      <figure class="table-figure">\n'
-            f'        <div class="table-pic"><img src="media/table.webp" alt="" width="{W}" height="{H}">{svg(lang)}'
-            f'<i class="ic tf-icon" data-b="{ICON_AT[0]}" style="left:{ICON_AT[1][0]/W*100:.2f}%;top:{ICON_AT[1][1]/H*100:.2f}%"></i></div>\n'
+            f'        <div class="table-pic"><img src="media/table.webp" alt="" width="{W}" height="{H}">{svg(lang)}{icons}</div>\n'
             f'        <figcaption>{esc(t["caption"])}</figcaption>\n'
             f'      </figure>\n'
             f'      <aside class="note">{esc(t["note"])}</aside>\n')   # outro (про фигурки) не печатается: это уже сказано в главах о ловушке, яде и ауре

diff --git a/tools/compose-table-effects.py b/tools/compose-table-effects.py
@@ -48,8 +48,12 @@ paste_center(im, down(rot(card_face('rules/media/cards/1031.webp'), 180)), 705, 
 # левый игрок: аура — над персонажем и ролью (с его точки зрения «справа» — выше по картинке), с фигуркой знамени
 paste_center(im, down(rot(card_face('rules/media/cards/1209.webp', w=37*S, h=60*S), -90)), 349, 497)
 banner = Image.open('rules/media/fig/banner.webp').convert('RGBA')
-banner = ImageOps.contain(banner, (22*S, 34*S), Image.LANCZOS)
+banner = ImageOps.contain(banner, (22*S, 34*S), Image.LANCZOS).rotate(-90, Image.BICUBIC, expand=True)   # лежит «по игроку»: верх — к центру стола
 paste_center(im, down(banner), 349, 494)
+
+# холст шире на PAD слева — под дугу ауры за спиной левого ниндзя (table_fig.PAD)
+PAD = 110
+wide = Image.new('RGBA', (im.width + PAD, im.height), (0, 0, 0, 0)); wide.alpha_composite(im, (PAD, 0)); im = wide
 
 im.save(out, 'WEBP', quality=90, method=6)
 print('written', out, im.size)

diff --git a/CLAUDE.md b/CLAUDE.md
@@ -355,9 +355,14 @@ diff'у мучительно. Место дешевле времени.
   в свободных местах рядом со своим предметом, стрелки короткие; «|» в
   тексте подписи — перенос строки. Ширина плашки считается от длины
   текста, текст в ней центрирован; плашки белые, без обводки, шрифт
-  обычный. Стрелки хода (`FLOWS`): атака (киноварь), защита (золото, на
-  конце значок типа `ICON_AT`), вмешательство (цвет вмешательств) — снаружи
-  стола, с плашками-подписями.
+  обычный. Стрелки хода (`FLOWS`) — дуги, концентричные кромке стола
+  (центр `CX, CY`, радиус `R_ARC`), со значками типов на середине дуги:
+  атака (киноварь, оружие + модификатор) и защита (золото, щит) идут
+  навстречу до середины между нижним самураем и правым ниндзя,
+  вмешательство (цвет вмешательств) — от верхнего самурая к ниндзя, аура
+  (цвет аур) — за спиной левого ниндзя на радиусе `R_AURA`; под неё холст
+  стола расширен слева на `PAD` px (координаты подписей остаются в пикселях
+  фото, SVG сдвинут группой).
 - **Печать** — `rules-print.css`: `@page` A5 портрет без полей, каждая
   `section.sheet` на свой лист, экранная шапка и зазоры убраны. Экранный
   `zoom` для узких окон — только `@media screen`, иначе он ломает размер
